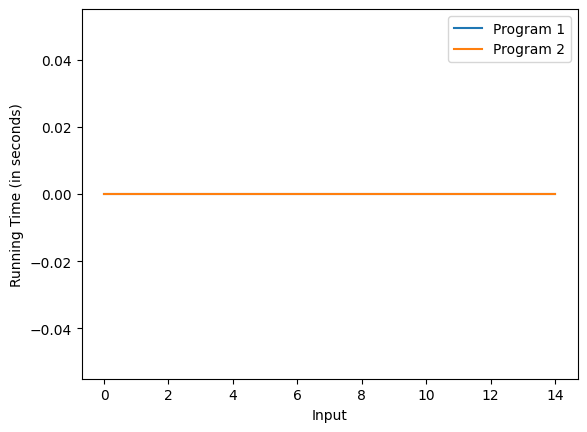
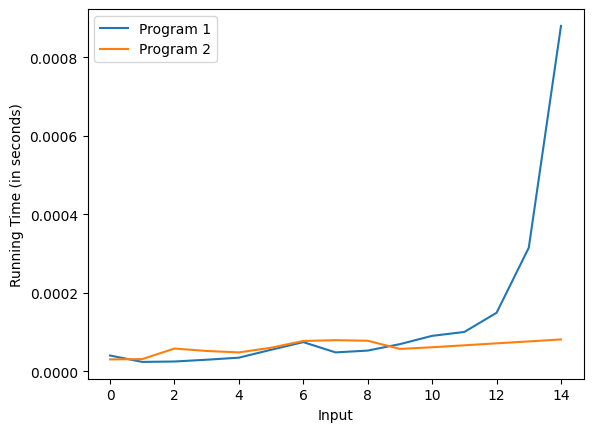
Finished PSET 3

diff --git a/fall2023/psets/ps3/tests.py b/fall2023/psets/ps3/tests.py
@@ -80,6 +80,70 @@ divide = [5,
             ['write', output_ptr_id, 3],
         ]
 
+Zinput_len_id = 0
+Zoutput_ptr_id = 1
+Zoutput_len_id = 2
+Zzero_id = 3
+Zone_id = 4
+Zcounter_id = 5
+Zresult_id = 6
+Zseventeen_id = 7
+Ztemp_id = 8   # Used only in prog2
+ZW_id = 9       # Used only in prog2
+##DELTE LATER
+prog1 = [8, 
+    ['assign', Zzero_id, 0],
+    ['assign', Zone_id, 1], 
+    ['assign', Zseventeen_id, 17],
+    ['assign', Zoutput_len_id, 1], 
+    ['assign', Zoutput_ptr_id, 0],
+    # TODO: lines 5-8 from pseudocode
+    # LINE 5
+    ['assign', Zresult_id, 17],
+    # Line 6
+    ['read', Zcounter_id, Zzero_id],
+    # Line 7
+    ['goto', Zcounter_id, 11],
+    #Line 8
+    ['*', Zresult_id, Zresult_id, Zresult_id],
+    ##
+    ['-', Zcounter_id, Zcounter_id, Zone_id],
+    ['goto', Zzero_id, 7],
+    ['*', Zresult_id, Zresult_id, Zseventeen_id],
+    ['write', Zoutput_ptr_id, Zresult_id]
+]
+
+prog2 = [10, 
+    ['assign', Zzero_id, 0],
+    ['assign', Zone_id, 1], 
+    ['assign', Zseventeen_id, 11], 
+    ['assign', Zseventeen_id, 17], 
+    ['assign', Zoutput_len_id, 1], 
+    ['assign', Zoutput_ptr_id, 0],
+    ['assign', Zresult_id, 17],
+    ['assign', ZW_id, 2**32],
+    ['read', Zcounter_id, Zzero_id],
+    ['goto', Zcounter_id, 15],
+    ['*', Zresult_id, Zresult_id, Zresult_id],
+    ['/', Ztemp_id, Zresult_id, ZW_id],
+    ['*', Ztemp_id, Ztemp_id, ZW_id],
+    ['-', Zresult_id, Zresult_id, Ztemp_id],
+    ['-', Zcounter_id, Zcounter_id, Zone_id],
+    # TODO: lines 14-19 from pseudocode
+    # Line 14
+    ['goto', Zzero_id, 8],
+    # Line 15
+    ['*', Zresult_id, Zresult_id, Zseventeen_id],
+    # Line 16
+    ['/', Ztemp_id, Zresult_id, ZW_id],
+    # Line 17
+    ['*', Ztemp_id, Ztemp_id, ZW_id],
+    # Line 18
+    ['-', Zresult_id, Zresult_id, Ztemp_id],
+    # Line 19
+    ['write', Zoutput_ptr_id, Zresult_id]
+]
+
 def test() :
     tests["Example 0: Unit Tests"] = [
         {
@@ -200,6 +264,36 @@ def test() :
             "show_expectation": True
         },
         ]     
+    tests["Example 3:  Tests"] = [
+            {
+                "label": "Prog1(5)",
+                "input": 5,
+                "test": lambda n: simulator.executeProgram(prog1, [n])[0],
+                "expected": 17**((2**5)+1),
+                "show_expectation": True
+            },
+            {
+                "label": "Prog1(2)",
+                "input": 2,
+                "test": lambda n: simulator.executeProgram(prog1, [n])[0],
+                "expected": 17**((2**2)+1),
+                "show_expectation": True
+            },
+            {
+                "label": "Prog2(5)",
+                "input": 5,
+                "test": lambda n: simulator.executeProgram(prog2, [n])[0],
+                "expected": 17**((2**5)+1),
+                "show_expectation": True
+            },
+            {
+                "label": "Prog2(2)",
+                "input": 2,
+                "test": lambda n: simulator.executeProgram(prog2, [n])[0],
+                "expected": 17**((2**2)+1),
+                "show_expectation": True
+            }
+            ]
 
     number_passed = 0
     total_tests = 0

diff --git a/fall2023/psets/ps3/experiments.py b/fall2023/psets/ps3/experiments.py
@@ -102,13 +102,13 @@ def run_prog2 (n):
 def graph ():
     input_range = range(0, 15)
     prog1_time = [time_fun(run_prog1, i) for i in input_range]
-    prog2_time = [time_fun(run_prog2, i) for i in input_range]
+    #prog2_time = [time_fun(run_prog2, i) for i in input_range]
     plt.plot(input_range, prog1_time, label="Program 1")
-    plt.plot(input_range, prog2_time, label="Program 2")
-    plt.xlabel('Input')
+    #plt.plot(input_range, prog2_time, label="Program 2")
+    plt.xlabel('Input') 
     plt.ylabel('Running Time (in seconds)')
     plt.legend()
-    plt.savefig('running_times.png', bbox_inches = "tight")
+    #plt.savefig('running_times.png', bbox_inches = "tight")
     plt.show()
 
 if __name__ == "__main__":
